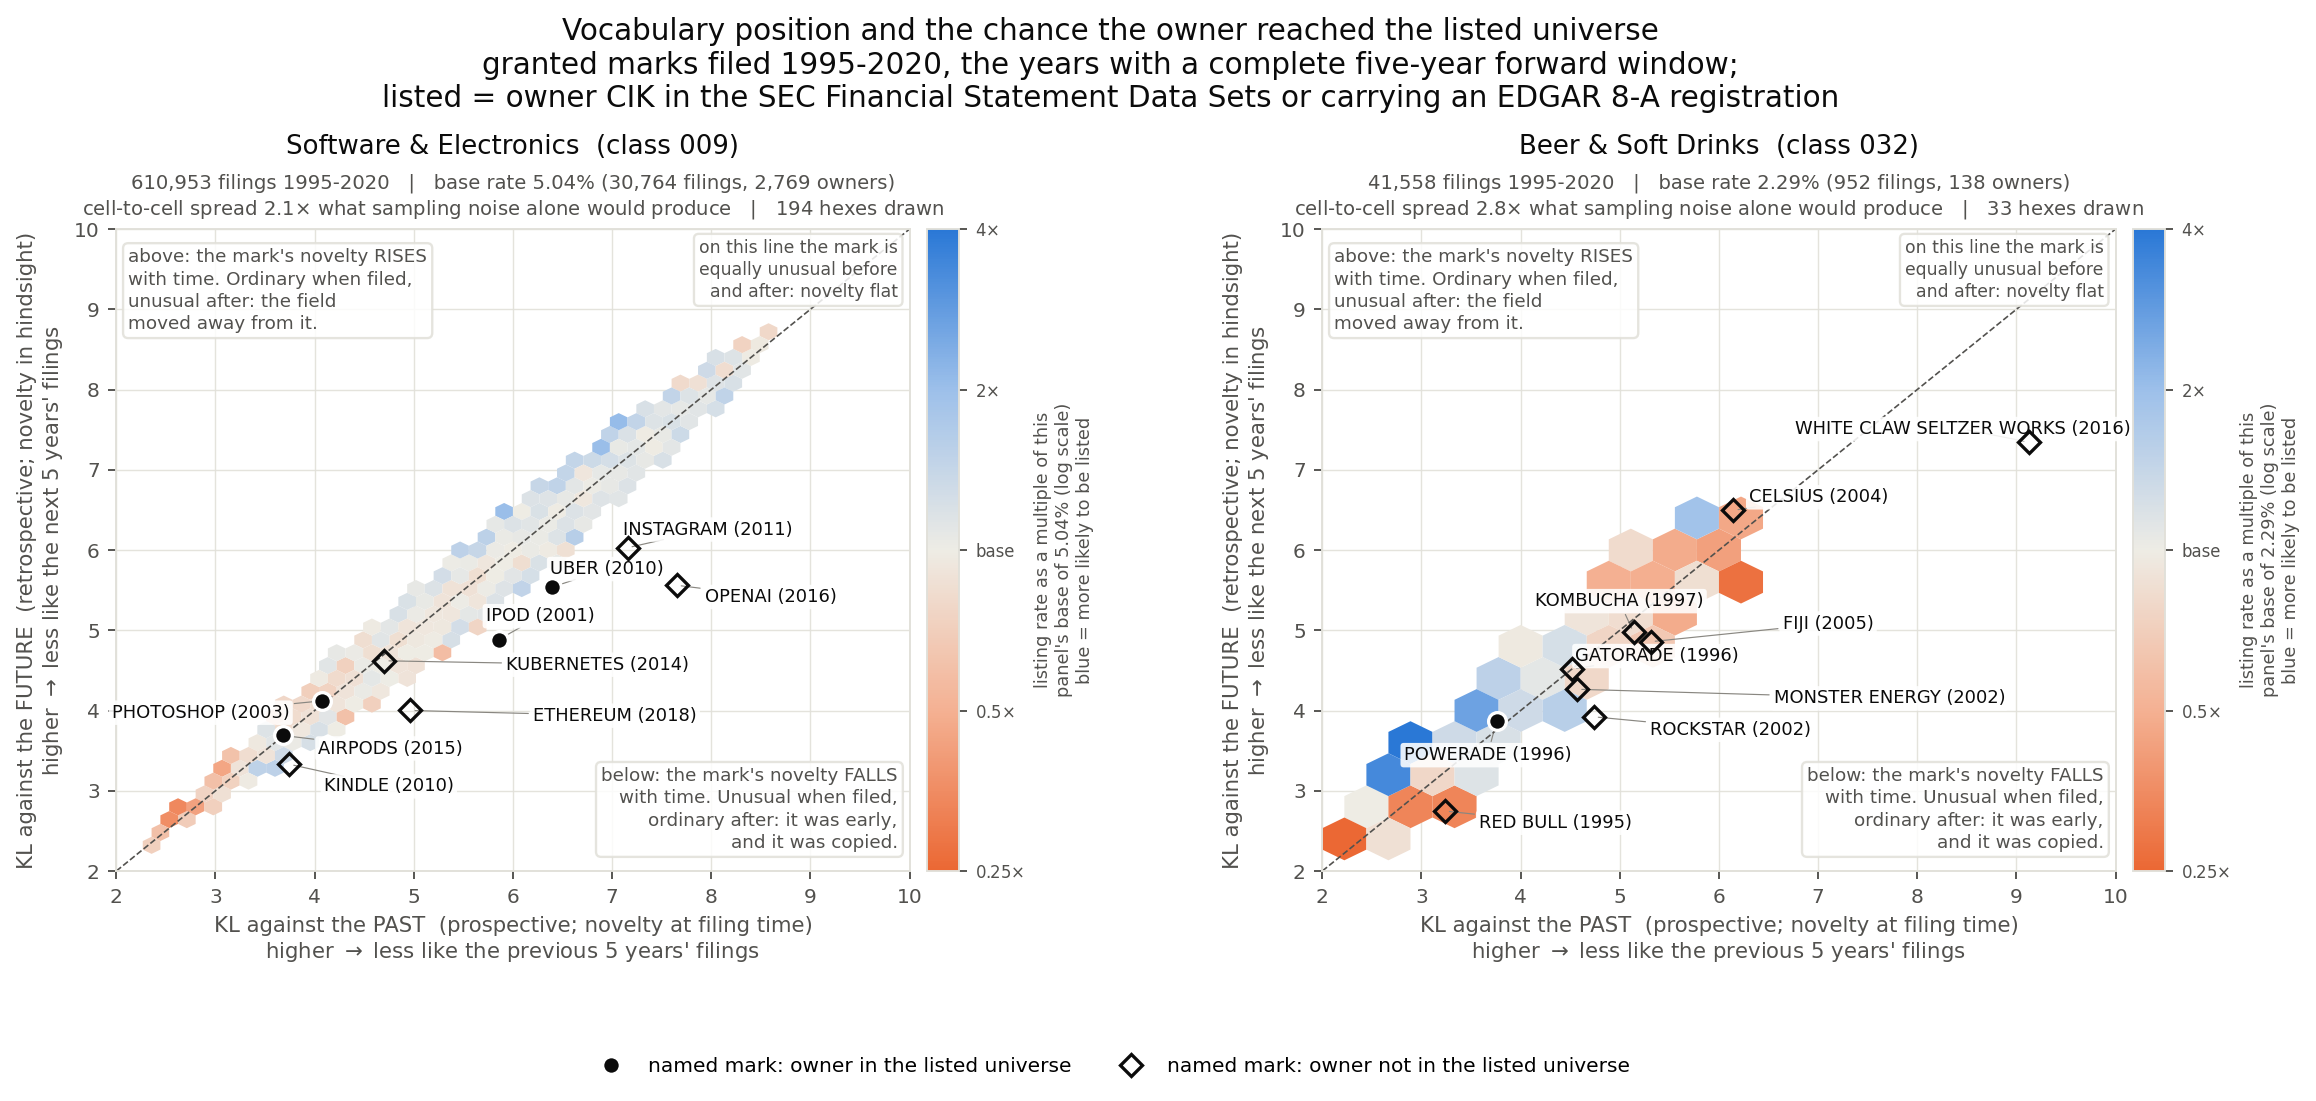
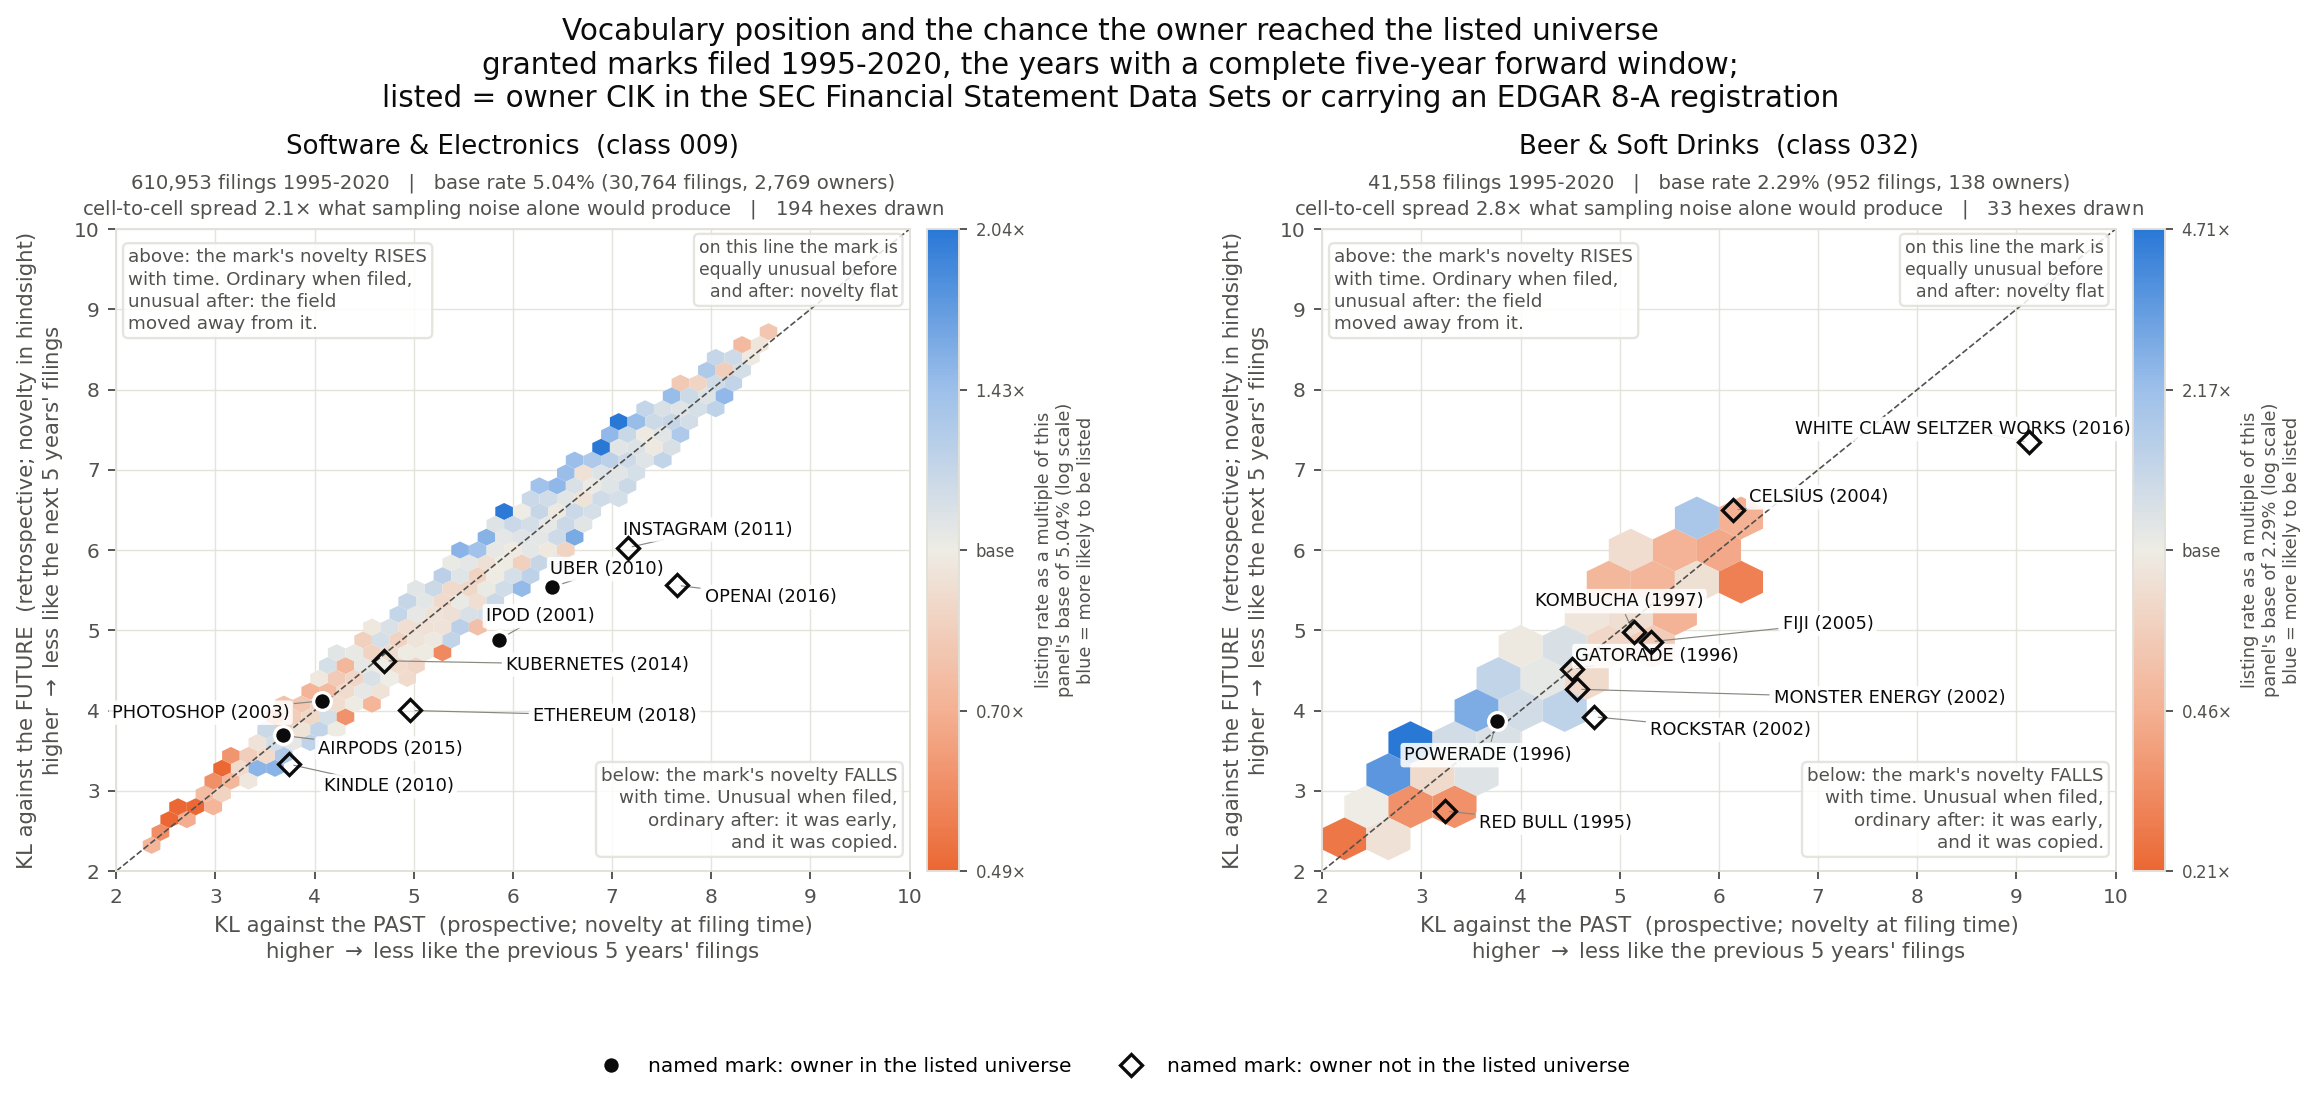
Listing surface: per-panel colour range instead of a shared +/-2 log2
A fixed +/-2 log2 range (0.25x to 4x) left both panels a grey smudge, because
nearly every cell sits within a factor of two of its own base rate and so
occupied the dead middle of the ramp. The range is now set per panel from that
panel's own spread -- the 97.5th percentile of |value|, so a couple of extreme
cells cannot flatten everything else -- with a floor at 0.35 log2 so a
genuinely flat panel is not amplified into false structure. Ticks follow the
panel's own span.

Software now spans 0.49x to 2.04x and beverages 0.21x to 4.71x, which is the
honest difference between them: beverages has far more per-cell movement. Each
panel already carried its own colourbar, so panel-specific ranges are legible
rather than misleading.

diff --git a/scripts/quadrant_outcome_variants.py b/scripts/quadrant_outcome_variants.py
@@ -172,7 +172,7 @@ SURF_LO, SURF_HI = 1995, 2020    # variant C surface: post burn-in, full window
 HEX_SURV = {"009": (45, 85), "032": (24, 40)}
 HEX_LIST = {"009": (45, 400), "032": (18, 250)}
 SURV_PP = 16.0                   # colour range, pp either side of panel base
-LIST_L2 = 2.0                    # colour range, log2 units either side of 1x
+LIST_L2_MIN = 0.35               # floor on the per-panel colour range (log2)
 Z_MARK = 8                       # exemplar markers sit ABOVE their own labels
 
 
@@ -667,9 +667,23 @@ def variant_c(frames: dict[str, pl.DataFrame], counts: list, exrows: list,
             m = float(np.mean(v))
             return np.log2(max(m, b / 64.0) / b)
 
+        # A fixed +/-2 log2 range left both panels a grey smudge: nearly every
+        # cell sits within a factor of two of its own base, so the whole surface
+        # occupied the dead middle of the ramp. The range is now set PER PANEL
+        # from that panel's own spread -- the 97.5th percentile of |value|, so a
+        # couple of extreme cells cannot flatten everything else -- with a floor
+        # at LIST_L2_MIN so a genuinely flat panel is not amplified into false
+        # structure. Each panel already carries its own colourbar, so a
+        # panel-specific range is legible rather than misleading.
+        probe = ax.hexbin(x, y, C=f, gridsize=gs, extent=(LO, HI, LO, HI),
+                          reduce_C_function=lr, mincnt=mincnt, visible=False)
+        pv = np.asarray(probe.get_array())
+        span = max(float(np.percentile(np.abs(pv), 97.5)) if len(pv) else 0.0,
+                   LIST_L2_MIN)
+
         hb = ax.hexbin(x, y, C=f, gridsize=gs, extent=(LO, HI, LO, HI),
                        reduce_C_function=lr, mincnt=mincnt, cmap=DIVERGING_R,
-                       norm=Normalize(vmin=-LIST_L2, vmax=LIST_L2),
+                       norm=Normalize(vmin=-span, vmax=span),
                        linewidths=0.0, zorder=1)
         # One colourbar per panel, as in variant A: the scale is a multiple of
         # THIS panel's base rate, and the two panels' bases differ by more than
@@ -679,15 +693,16 @@ def variant_c(frames: dict[str, pl.DataFrame], counts: list, exrows: list,
                       f"panel's base of {100*base:.2f}% (log scale)\n"
                       f"blue = more likely to be listed",
                       fontsize=7.5, color=INK2)
-        cbp.set_ticks([-2.0, -1.0, 0.0, 1.0, 2.0])
-        cbp.set_ticklabels(["0.25$\\times$", "0.5$\\times$", "base",
-                            "2$\\times$", "4$\\times$"])
+        ticks = [-span, -span / 2, 0.0, span / 2, span]
+        cbp.set_ticks(ticks)
+        cbp.set_ticklabels([("base" if t == 0 else f"{2 ** t:.2f}$\\times$")
+                            for t in ticks])
         cbp.ax.tick_params(labelsize=7, colors=INK2)
         cbp.outline.set_edgecolor(GRID)
 
         drawn = int((cnt >= mincnt).sum())
         vals = np.asarray(hb.get_array())
-        clipped = int((np.abs(vals) > LIST_L2).sum())
+        clipped = int((np.abs(vals) > span).sum())
         # spread expected from binomial noise alone, in the same log2 units
         exp_sd = float(np.sqrt(np.mean(
             (base * (1 - base) / cnt[cnt >= mincnt]) / base ** 2))) / np.log(2)
@@ -709,7 +724,7 @@ def variant_c(frames: dict[str, pl.DataFrame], counts: list, exrows: list,
             f"{len(cnt)-drawn} blank of {len(cnt)}; median cell n="
             f"{np.median(cnt[cnt>=mincnt]):.0f}; log2 spread sd {vals.std():.3f} vs "
             f"{exp_sd:.3f} from binomial noise (dispersion {disp:.2f}); "
-            f"{clipped} cells clipped at +/-{LIST_L2}")
+            f"{clipped} cells clipped at +/-{span:.2f} log2")
 
         # marginal gradients, printed so the "is it flat?" question is answerable
         # from numbers as well as from the picture
